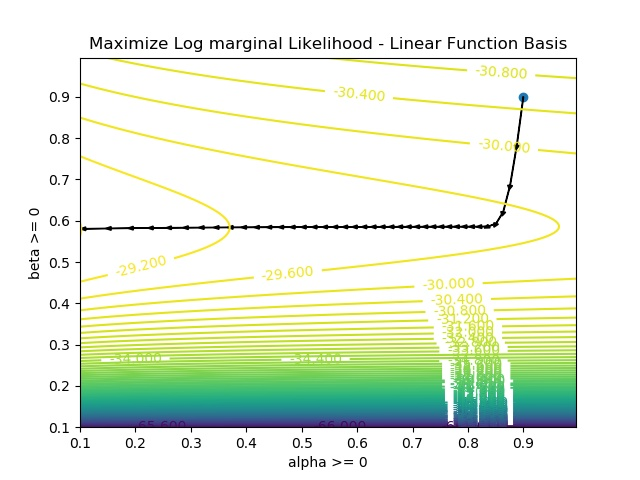
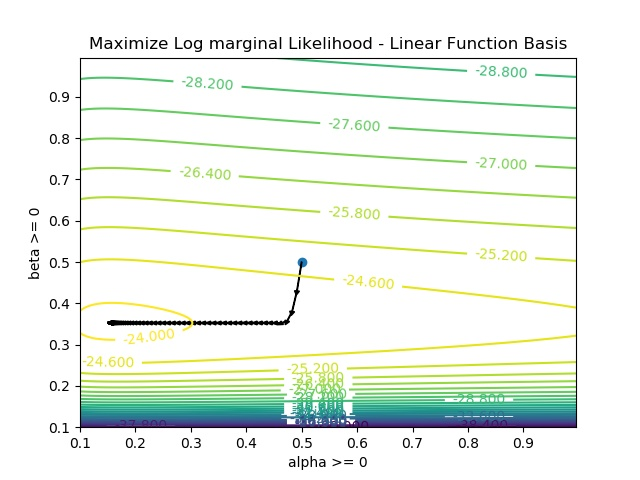
done

Changed region(s): [[0.125, 0.125, 0.9062, 0.9062]]

diff --git a/plot_c2.py b/plot_c2.py
@@ -90,12 +90,8 @@ XX = [0,1, 2, 3, 4,5,6,7,8,9,10]
 YY = np.empty([11])
 sigma = np.empty([11])
 
-sum_error = 0
 for i in range(11):
-  sum_error = sum_error + cross_validation(i,N-1)
-print(sum_error)
-for i in range(11):
-  YY[i] = np.log(cross_validation(i,N-1)/sum_error)
+  YY[i] = cross_validation(i,N-1)*100
 
 for i in range(11):
   sigma[i] = sigma_square(i,N)
@@ -112,9 +108,23 @@ mlml0 = [-28.4944341114782,
 -6.92848522100128,
 -8.79662037940724
 ]
-mlml = mlml0
+
+mlml2= [
+    -27.80190177509497, #0
+    -18.345538196134015, #1
+    -14.155975751699678, #2
+    -9.355509112701306, #3
+    -6.92848522100128, #4
+    -7.058505959618605, #5
+    -9.067900608464498, #6
+    -12.215579803844987, #7
+    -15.758751753692808, #8
+    -19.109833379365462, #9
+    -21.261886726092822 #10
+]
+mlml = mlml2
 for i in range(11):
-  mlml[i] = mlml0[i] #math.exp(mlml0[i])
+  mlml[i] = mlml2[i] #math.exp(mlml0[i])
 
 plt.plot(XX, YY, 'r')
 #plt.plot(XX, sigma, 'g')
@@ -123,7 +133,7 @@ plt.plot(XX,YY, 'r+')
 #plt.plot(XX, sigma, 'g^')
 plt.plot(XX, mlml, 'b*')
 ##set annotation
-notation = [str(round(YY[i],0)) for i in range(11)]
+notation = [str(round(YY[i],2)) for i in range(11)]
 for i, x in enumerate(notation):
     ax.annotate(notation[i], (XX[i], YY[i]), fontsize=12)
 '''    
@@ -135,11 +145,11 @@ notation = [str(round(mlml[i],2)) for i in range(11)]
 for i, x in enumerate(notation):
     ax.annotate(notation[i], (XX[i], mlml[i]), fontsize=12)
     
-plt.legend(('the log value of normalized cross validation','log maximum marginal likelihood'), 
+plt.legend(('cross validation(e-100)','log maximum marginal likelihood'), 
            loc='upper center', shadow=True) #'ML value for sigma square (e-100)', 
 #---------------------------------------
 
 plt.xlim(-0.5, 10.5)
-plt.ylim(-30, 10)
+plt.ylim(-30, 60)
 
 plt.show()

diff --git a/gradient_descent.py b/gradient_descent.py
@@ -1,0 +1,58 @@
+import matplotlib
+import numpy as np
+import matplotlib.cm as cm
+import matplotlib.pyplot as plt
+import math 
+
+def lml(alpha, beta, Phi, Y):
+  N = Phi.shape[0]
+  M = Phi.shape[1]
+  p1 = (-N/2.0)*np.log(2*np.pi) 
+  tem = alpha*np.matmul(Phi, np.transpose(Phi)) 
+  p2 = (-1/2.0)*np.log(np.linalg.det(tem + beta*np.identity(N)))
+  p3 = (-1/2.0)*np.matmul(np.matmul(np.transpose(Y), np.linalg.inv(tem + beta*np.identity(N))), Y)
+  return np.asscalar(p1+p2+p3)
+
+
+def grad_lml(alpha, beta, Phi, Y):
+  N = Phi.shape[0]
+  M = Phi.shape[1]
+  z = np.matmul(np.matmul(Phi, alpha*np.identity(M)), np.transpose(Phi)) + beta*np.identity(N)
+  A = np.linalg.inv(z)
+  p1 = np.dot(Phi, np.transpose(Phi))
+  p2 = np.dot(np.dot(A, p1), A)
+  tem = np.dot(np.dot(np.transpose(Y), p2), Y)
+  alpha_grad = (-1/2.0)*(np.trace(np.dot(A, np.dot(Phi, np.transpose(Phi)))) - tem)
+  beta_grad = (-1/2.0)*(np.trace(A) - np.dot(np.dot(np.transpose(Y), np.dot(A,A)), Y))
+  return np.array([alpha_grad, beta_grad]).flatten()
+
+def plot2Dpoint(x,y):
+  ax.hold(True)
+  plt.scatter(x, y)
+
+##data
+x=np.linspace(0, 0.9, 25)
+y=np.cos(10*x**2) + 0.1*np.sin(100*x)
+phi = np.reshape([[1]*25, x], [25,2])
+
+
+##plot data
+delta = 0.003
+a = np.arange(0.1, 1.0, delta) #M
+b = np.arange(0.1, 1.0, delta) #N
+m = a.shape[0]
+n = b.shape[0]
+z = np.empty([n,m])
+for a1 in range(m):
+  for b1 in range(n):
+    z[b1][a1] = lml(a[a1], b[b1], phi, y)
+
+##plot configeration
+fig, ax = plt.subplots()
+CS = ax.contour(a,b,z,60)
+ax.clabel(CS, inline=1, fontsize=10)
+ax.set_title('Maximize Log marginal Likelihood - Linear Function Basis')
+ax.set_xlabel('alpha >= 0')
+ax.set_ylabel('beta >= 0')
+
+plt.show()

diff --git a/plot_c.py b/plot_c.py
@@ -23,11 +23,26 @@ def phi(N, M):
         phi[i][j]=np.cos(2*np.pi*J*X[i])
   return phi
 
-phi = phi(25,10)# order!
+def phi2(N, order):
+  X = np.linspace(0,0.9,N)
+  phi = np.empty([N, 2*order+1])
+  for i in range(N):
+    for j in range(2*order+1):
+      if(j==0):
+        phi[i][j]=1
+      elif(j%2 ==1):
+        J = (j+1)/2
+        phi[i][j]=np.sin(2*np.pi*J*X[i])
+      else:
+        J = j/2
+        phi[i][j]=np.cos(2*np.pi*J*X[i])
+  return phi
+
+phi = phi2(25,9)# order!
 
 delta = 0.005#0.005[1-4]
-a = np.arange(0.1, 1.0, delta) #M
-b = np.arange(0.1, 1.0, delta) #N
+a = np.arange(0.01, 0.5, delta) #M
+b = np.arange(0.01, 0.5, delta) #N
 m = a.shape[0]
 n = b.shape[0]
 z = np.empty([n,m])
@@ -75,7 +90,7 @@ def grad(x,y):
     mlml1 = an.lml(x, y, phi, Yd)
     
     if(mlml1-mlml == 0 or count > 10000):
-      if(mlml1-mlml == 0 ):
+      if(mlml1-mlml < 0.00001 ):
         print(mlml1, x, y)
       v = False
 
@@ -86,7 +101,7 @@ def grad(x,y):
 
 
 #plot2Dpoint(0.2,0.2)
-grad(0.2,0.2)
+grad(0.25,0.2)
 plt.show()
 
 # order = [0,4]

diff --git a/plot_b.py b/plot_b.py
@@ -8,10 +8,10 @@ import answers as an
 
 Xd = np.linspace(0,0.9,25)
 Yd = np.cos(10*Xd**2) + 0.1*np.sin(100*Xd)
-phi = np.reshape(Xd, [25,1])
+phi = np.reshape([[1]*25, Xd], [25,2])
 delta = 0.005
-a = np.arange(0.1, 1.0, delta) #M
-b = np.arange(0.1, 1.0, delta) #N
+a = np.arange(0.1, 1, delta) #M
+b = np.arange(0.1, 1, delta) #N
 m = a.shape[0]
 n = b.shape[0]
 z = np.empty([n,m])
@@ -21,7 +21,7 @@ for a1 in range(m):
 #print(z.shape)
 
 fig, ax = plt.subplots()
-CS = ax.contour(a,b,z,100)
+CS = ax.contour(a,b,z,30)
 ax.clabel(CS, inline=1, fontsize=10)
 ax.set_title('Maximize Log marginal Likelihood - Linear Function Basis')
 #(starting point-(0.9,0.9) step_size = 0.025)
@@ -34,7 +34,7 @@ def plot2Dpoint(x,y):
   plt.scatter(x, y)
 
 def grad(x,y):
-  gama = 0.005
+  gama = 0.01
   v = True
   count = 0
   mlml = 0
@@ -65,6 +65,6 @@ def grad(x,y):
     mlml = mlml1
     count = count + 1
 
-plot2Dpoint(0.9,0.9)
-grad(0.9,0.9)
+plot2Dpoint(0.5,0.5)
+grad(0.5,0.5)
 plt.show()
